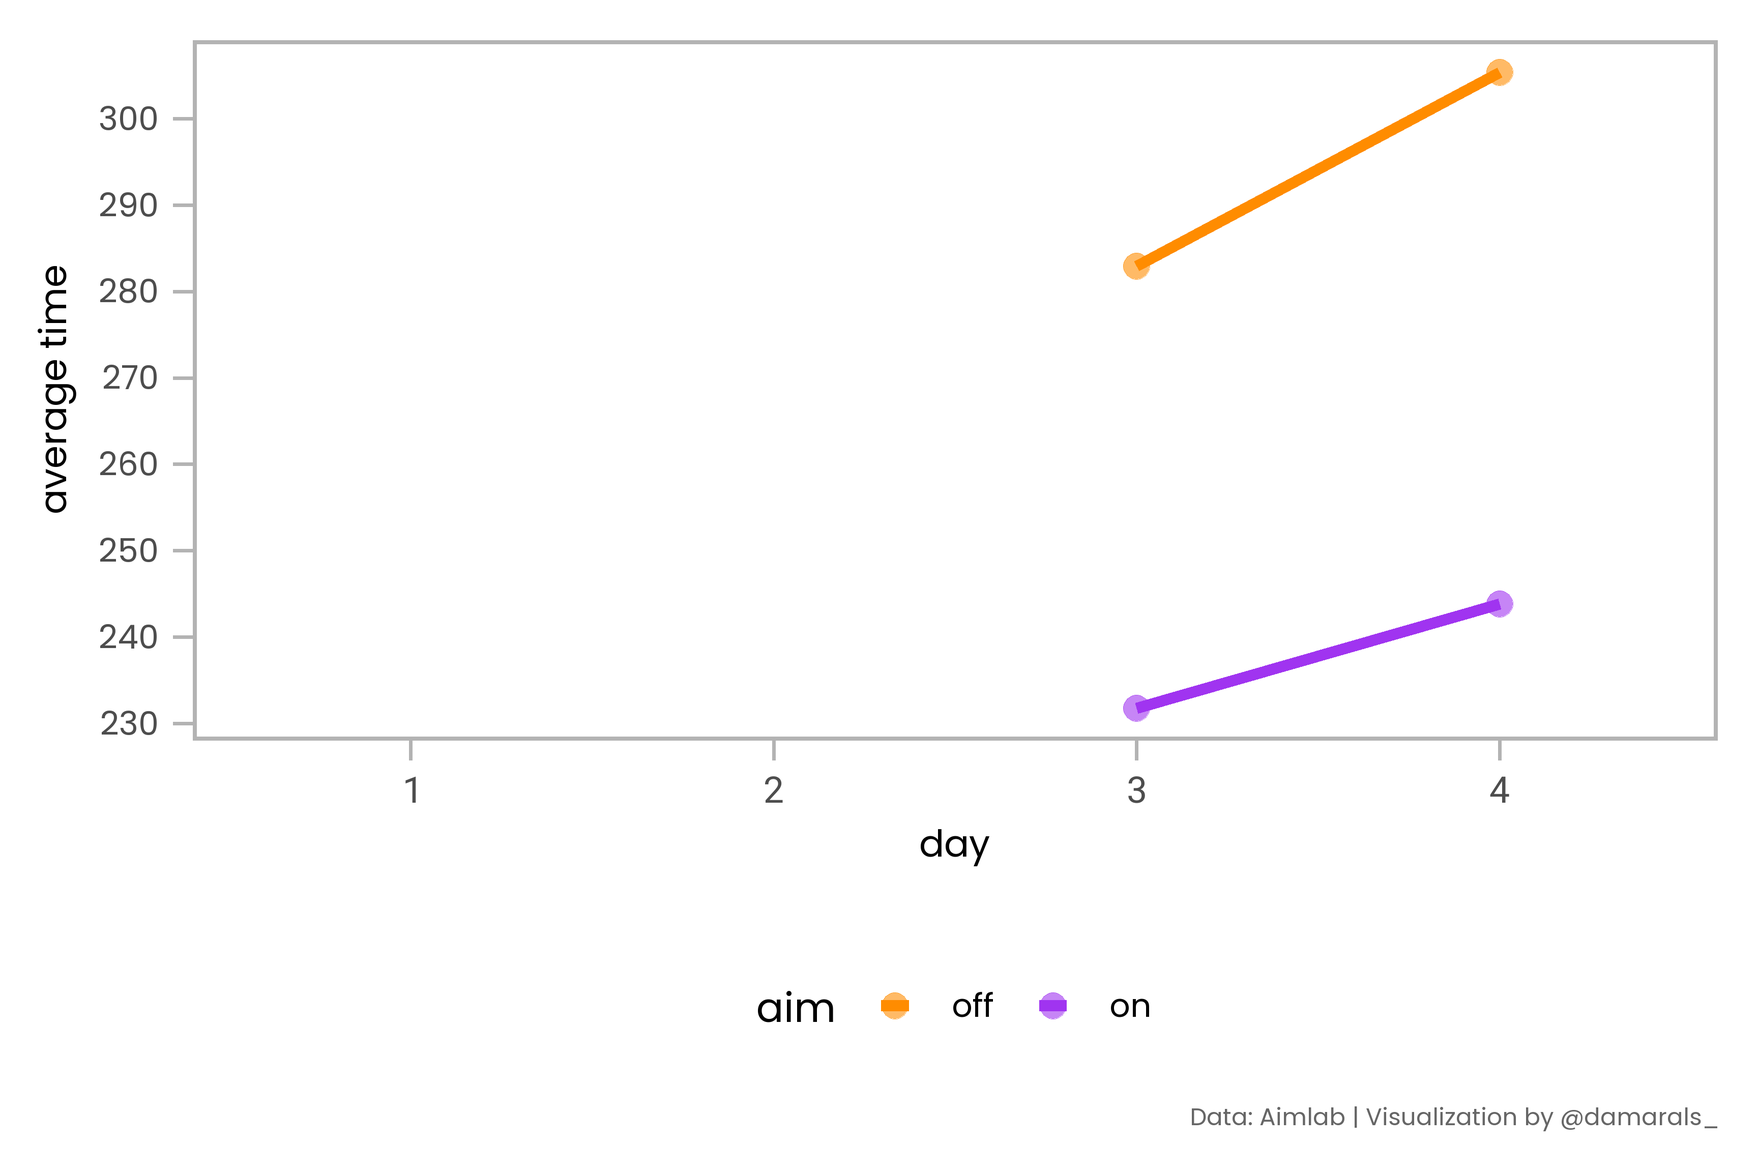
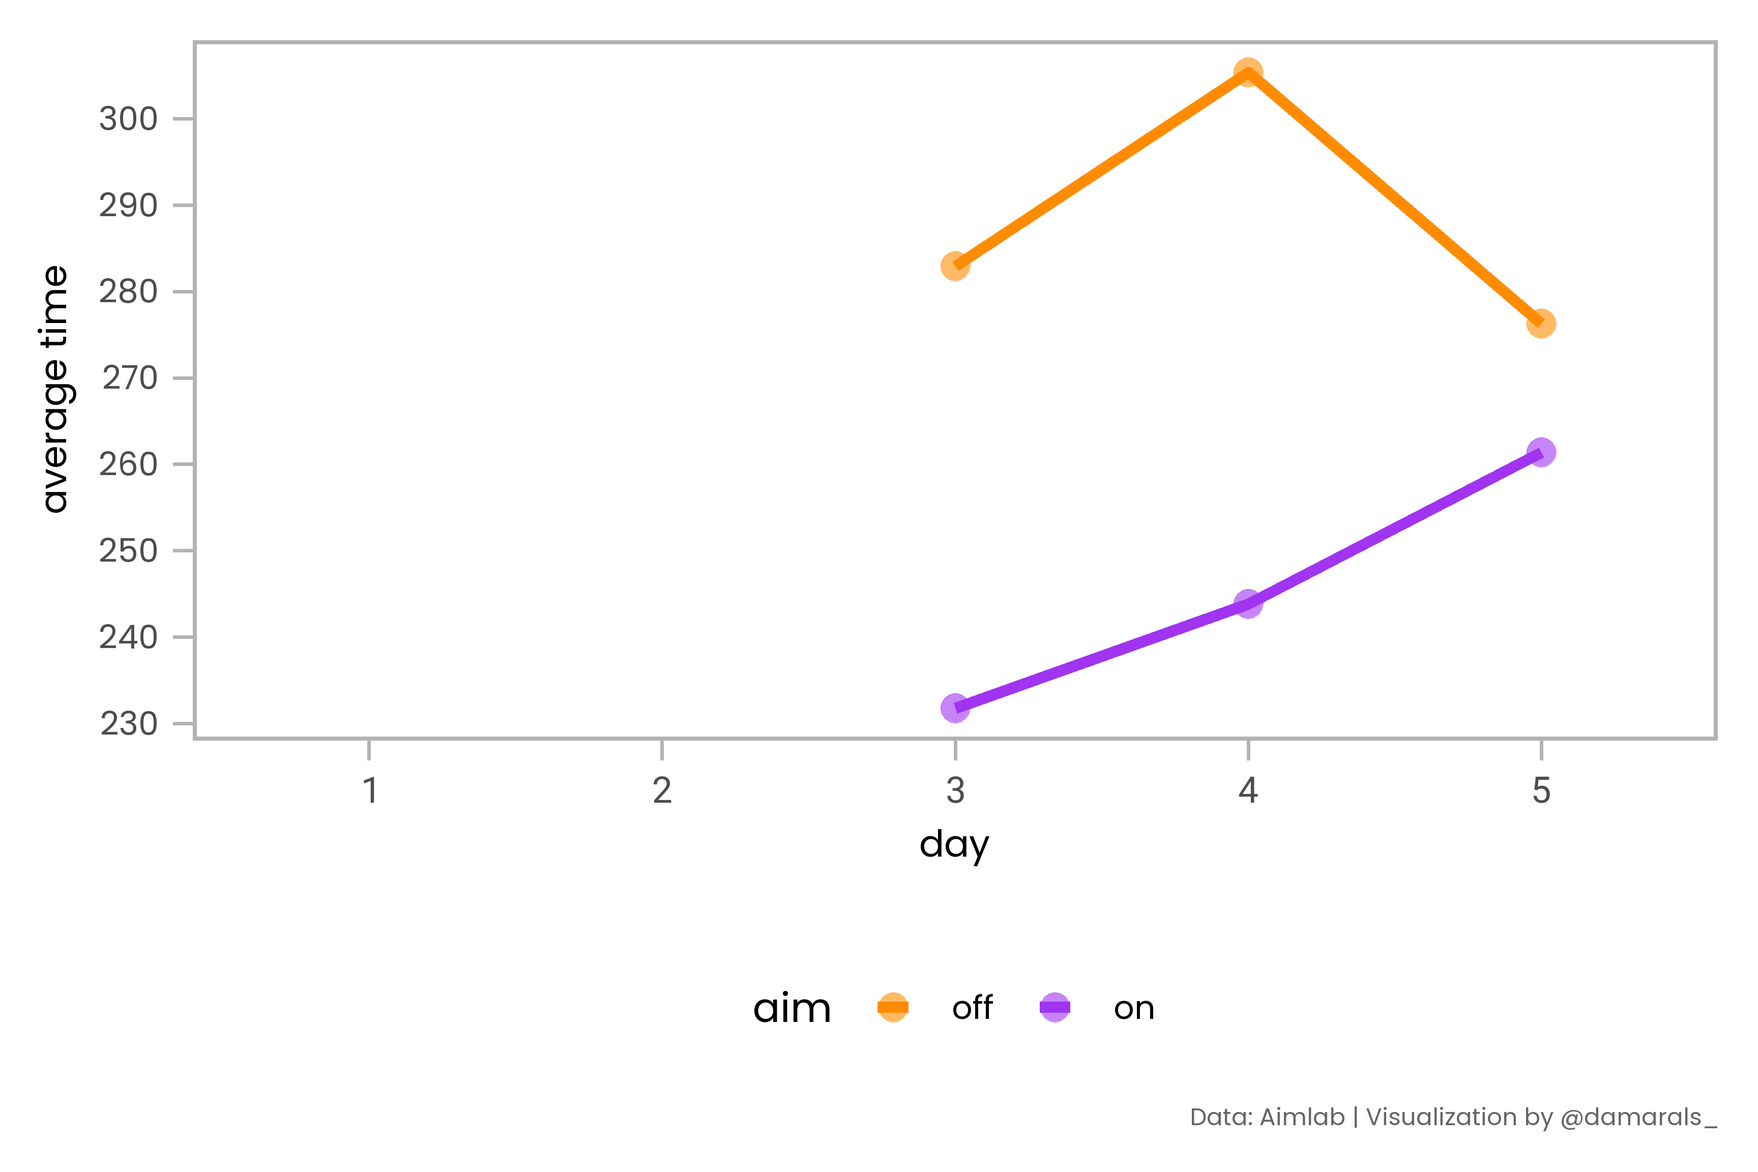
:sparkles: update task data

diff --git a/docs/posts/2022-05-13_aimlab-is-worth/index.html b/docs/posts/2022-05-13_aimlab-is-worth/index.html
@@ -316,7 +316,7 @@ code span.wa { color: #60a0b0; font-weight: bold; font-style: italic; } /* Warni
 <span id="cb3-7"><a href="#cb3-7" aria-hidden="true" tabindex="-1"></a>  dplyr<span class="sc">::</span><span class="fu">mutate</span>(<span class="at">aim =</span> stringr<span class="sc">::</span><span class="fu">str_remove</span>(aim, <span class="st">"avg_time_"</span>)) <span class="sc">%&gt;%</span></span>
 <span id="cb3-8"><a href="#cb3-8" aria-hidden="true" tabindex="-1"></a>  ggplot2<span class="sc">::</span><span class="fu">ggplot</span>() <span class="sc">+</span></span>
 <span id="cb3-9"><a href="#cb3-9" aria-hidden="true" tabindex="-1"></a>  ggplot2<span class="sc">::</span><span class="fu">aes</span>(<span class="at">x =</span> day, <span class="at">y =</span> avg_time, <span class="at">color =</span> aim, <span class="at">group =</span> aim) <span class="sc">+</span></span>
-<span id="cb3-10"><a href="#cb3-10" aria-hidden="true" tabindex="-1"></a>  ggplot2<span class="sc">::</span><span class="fu">stat_summary</span>(<span class="at">fun =</span> mean, <span class="at">geom =</span> <span class="st">"point"</span>, <span class="at">size =</span> <span class="dv">9</span>, <span class="at">alpha =</span> <span class="fl">0.6</span>) <span class="sc">+</span></span>
+<span id="cb3-10"><a href="#cb3-10" aria-hidden="true" tabindex="-1"></a>  ggplot2<span class="sc">::</span><span class="fu">stat_summary</span>(<span class="at">fun =</span> mean, <span class="at">geom =</span> <span class="st">"point"</span>, <span class="at">size =</span> <span class="dv">10</span>, <span class="at">alpha =</span> <span class="fl">0.6</span>) <span class="sc">+</span></span>
 <span id="cb3-11"><a href="#cb3-11" aria-hidden="true" tabindex="-1"></a>  ggplot2<span class="sc">::</span><span class="fu">stat_summary</span>(<span class="at">fun =</span> mean, <span class="at">geom =</span> <span class="st">"line"</span>, <span class="at">size =</span> <span class="dv">4</span>) <span class="sc">+</span></span>
 <span id="cb3-12"><a href="#cb3-12" aria-hidden="true" tabindex="-1"></a>  ggplot2<span class="sc">::</span><span class="fu">scale_y_continuous</span>(<span class="at">breaks =</span> scales<span class="sc">::</span><span class="fu">pretty_breaks</span>(<span class="dv">8</span>)) <span class="sc">+</span></span>
 <span id="cb3-13"><a href="#cb3-13" aria-hidden="true" tabindex="-1"></a>  ggplot2<span class="sc">::</span><span class="fu">scale_color_discrete</span>(<span class="st">"aim on ball"</span>) <span class="sc">+</span></span>
@@ -390,7 +390,7 @@ code span.wa { color: #60a0b0; font-weight: bold; font-style: italic; } /* Warni
 <span id="cb5-4"><a href="#cb5-4" aria-hidden="true" tabindex="-1"></a>  ggplot2<span class="sc">::</span><span class="fu">ggplot</span>() <span class="sc">+</span></span>
 <span id="cb5-5"><a href="#cb5-5" aria-hidden="true" tabindex="-1"></a>  ggplot2<span class="sc">::</span><span class="fu">aes</span>(<span class="at">x =</span> day, <span class="at">y =</span> accuracy, <span class="at">group =</span> <span class="dv">1</span>) <span class="sc">+</span></span>
 <span id="cb5-6"><a href="#cb5-6" aria-hidden="true" tabindex="-1"></a>  ggplot2<span class="sc">::</span><span class="fu">stat_summary</span>(<span class="at">fun =</span> mean, <span class="at">geom =</span> <span class="st">"point"</span>, </span>
-<span id="cb5-7"><a href="#cb5-7" aria-hidden="true" tabindex="-1"></a>                        <span class="at">color =</span> <span class="st">"#A034F0"</span>, <span class="at">size =</span> <span class="dv">9</span>, <span class="at">alpha =</span> <span class="fl">0.6</span>) <span class="sc">+</span></span>
+<span id="cb5-7"><a href="#cb5-7" aria-hidden="true" tabindex="-1"></a>                        <span class="at">color =</span> <span class="st">"#A034F0"</span>, <span class="at">size =</span> <span class="dv">10</span>, <span class="at">alpha =</span> <span class="fl">0.6</span>) <span class="sc">+</span></span>
 <span id="cb5-8"><a href="#cb5-8" aria-hidden="true" tabindex="-1"></a>  ggplot2<span class="sc">::</span><span class="fu">stat_summary</span>(<span class="at">fun =</span> mean, <span class="at">geom =</span> <span class="st">"line"</span>, </span>
 <span id="cb5-9"><a href="#cb5-9" aria-hidden="true" tabindex="-1"></a>                        <span class="at">color =</span> <span class="st">"#A034F0"</span>, <span class="at">size =</span> <span class="dv">4</span>) <span class="sc">+</span></span>
 <span id="cb5-10"><a href="#cb5-10" aria-hidden="true" tabindex="-1"></a>  ggplot2<span class="sc">::</span><span class="fu">scale_y_continuous</span>(<span class="at">labels =</span> scales<span class="sc">::</span><span class="fu">percent_format</span>(<span class="at">accuracy =</span> <span class="dv">1</span>),</span>
@@ -415,7 +415,7 @@ code span.wa { color: #60a0b0; font-weight: bold; font-style: italic; } /* Warni
 <span id="cb6-3"><a href="#cb6-3" aria-hidden="true" tabindex="-1"></a>  ggplot2<span class="sc">::</span><span class="fu">ggplot</span>() <span class="sc">+</span></span>
 <span id="cb6-4"><a href="#cb6-4" aria-hidden="true" tabindex="-1"></a>  ggplot2<span class="sc">::</span><span class="fu">aes</span>(<span class="at">x =</span> day, <span class="at">y =</span> kills_per_sec, <span class="at">group =</span> <span class="dv">1</span>) <span class="sc">+</span></span>
 <span id="cb6-5"><a href="#cb6-5" aria-hidden="true" tabindex="-1"></a>  ggplot2<span class="sc">::</span><span class="fu">stat_summary</span>(<span class="at">fun =</span> mean, <span class="at">geom =</span> <span class="st">"point"</span>, </span>
-<span id="cb6-6"><a href="#cb6-6" aria-hidden="true" tabindex="-1"></a>                        <span class="at">color =</span> <span class="st">"#A034F0"</span>, <span class="at">size =</span> <span class="dv">9</span>, <span class="at">alpha =</span> <span class="fl">0.6</span>) <span class="sc">+</span></span>
+<span id="cb6-6"><a href="#cb6-6" aria-hidden="true" tabindex="-1"></a>                        <span class="at">color =</span> <span class="st">"#A034F0"</span>, <span class="at">size =</span> <span class="dv">10</span>, <span class="at">alpha =</span> <span class="fl">0.6</span>) <span class="sc">+</span></span>
 <span id="cb6-7"><a href="#cb6-7" aria-hidden="true" tabindex="-1"></a>  ggplot2<span class="sc">::</span><span class="fu">stat_summary</span>(<span class="at">fun =</span> mean, <span class="at">geom =</span> <span class="st">"line"</span>, </span>
 <span id="cb6-8"><a href="#cb6-8" aria-hidden="true" tabindex="-1"></a>                        <span class="at">color =</span> <span class="st">"#A034F0"</span>, <span class="at">size =</span> <span class="dv">4</span>) <span class="sc">+</span></span>
 <span id="cb6-9"><a href="#cb6-9" aria-hidden="true" tabindex="-1"></a>  ggplot2<span class="sc">::</span><span class="fu">scale_y_continuous</span>(<span class="at">breaks =</span> scales<span class="sc">::</span><span class="fu">pretty_breaks</span>(<span class="dv">8</span>)) <span class="sc">+</span></span>
@@ -450,7 +450,7 @@ code span.wa { color: #60a0b0; font-weight: bold; font-style: italic; } /* Warni
 <span id="cb7-4"><a href="#cb7-4" aria-hidden="true" tabindex="-1"></a>  ggplot2<span class="sc">::</span><span class="fu">ggplot</span>() <span class="sc">+</span></span>
 <span id="cb7-5"><a href="#cb7-5" aria-hidden="true" tabindex="-1"></a>  ggplot2<span class="sc">::</span><span class="fu">aes</span>(<span class="at">x =</span> day, <span class="at">y =</span> accuracy, <span class="at">group =</span> <span class="dv">1</span>) <span class="sc">+</span></span>
 <span id="cb7-6"><a href="#cb7-6" aria-hidden="true" tabindex="-1"></a>  ggplot2<span class="sc">::</span><span class="fu">stat_summary</span>(<span class="at">fun =</span> mean, <span class="at">geom =</span> <span class="st">"point"</span>, </span>
-<span id="cb7-7"><a href="#cb7-7" aria-hidden="true" tabindex="-1"></a>                        <span class="at">color =</span> <span class="st">"#A034F0"</span>, <span class="at">size =</span> <span class="dv">9</span>, <span class="at">alpha =</span> <span class="fl">0.6</span>) <span class="sc">+</span></span>
+<span id="cb7-7"><a href="#cb7-7" aria-hidden="true" tabindex="-1"></a>                        <span class="at">color =</span> <span class="st">"#A034F0"</span>, <span class="at">size =</span> <span class="dv">10</span>, <span class="at">alpha =</span> <span class="fl">0.6</span>) <span class="sc">+</span></span>
 <span id="cb7-8"><a href="#cb7-8" aria-hidden="true" tabindex="-1"></a>  ggplot2<span class="sc">::</span><span class="fu">stat_summary</span>(<span class="at">fun =</span> mean, <span class="at">geom =</span> <span class="st">"line"</span>, </span>
 <span id="cb7-9"><a href="#cb7-9" aria-hidden="true" tabindex="-1"></a>                        <span class="at">color =</span> <span class="st">"#A034F0"</span>, <span class="at">size =</span> <span class="dv">4</span>) <span class="sc">+</span></span>
 <span id="cb7-10"><a href="#cb7-10" aria-hidden="true" tabindex="-1"></a>  ggplot2<span class="sc">::</span><span class="fu">scale_y_continuous</span>(<span class="at">labels =</span> scales<span class="sc">::</span><span class="fu">percent_format</span>(<span class="at">accuracy =</span> <span class="dv">1</span>),</span>
@@ -475,7 +475,7 @@ code span.wa { color: #60a0b0; font-weight: bold; font-style: italic; } /* Warni
 <span id="cb8-3"><a href="#cb8-3" aria-hidden="true" tabindex="-1"></a>  ggplot2<span class="sc">::</span><span class="fu">ggplot</span>() <span class="sc">+</span></span>
 <span id="cb8-4"><a href="#cb8-4" aria-hidden="true" tabindex="-1"></a>  ggplot2<span class="sc">::</span><span class="fu">aes</span>(<span class="at">x =</span> day, <span class="at">y =</span> kills_per_sec, <span class="at">group =</span> <span class="dv">1</span>) <span class="sc">+</span></span>
 <span id="cb8-5"><a href="#cb8-5" aria-hidden="true" tabindex="-1"></a>  ggplot2<span class="sc">::</span><span class="fu">stat_summary</span>(<span class="at">fun =</span> mean, <span class="at">geom =</span> <span class="st">"point"</span>, </span>
-<span id="cb8-6"><a href="#cb8-6" aria-hidden="true" tabindex="-1"></a>                        <span class="at">color =</span> <span class="st">"#A034F0"</span>, <span class="at">size =</span> <span class="dv">9</span>, <span class="at">alpha =</span> <span class="fl">0.6</span>) <span class="sc">+</span></span>
+<span id="cb8-6"><a href="#cb8-6" aria-hidden="true" tabindex="-1"></a>                        <span class="at">color =</span> <span class="st">"#A034F0"</span>, <span class="at">size =</span> <span class="dv">10</span>, <span class="at">alpha =</span> <span class="fl">0.6</span>) <span class="sc">+</span></span>
 <span id="cb8-7"><a href="#cb8-7" aria-hidden="true" tabindex="-1"></a>  ggplot2<span class="sc">::</span><span class="fu">stat_summary</span>(<span class="at">fun =</span> mean, <span class="at">geom =</span> <span class="st">"line"</span>, </span>
 <span id="cb8-8"><a href="#cb8-8" aria-hidden="true" tabindex="-1"></a>                        <span class="at">color =</span> <span class="st">"#A034F0"</span>, <span class="at">size =</span> <span class="dv">4</span>) <span class="sc">+</span></span>
 <span id="cb8-9"><a href="#cb8-9" aria-hidden="true" tabindex="-1"></a>  ggplot2<span class="sc">::</span><span class="fu">scale_y_continuous</span>(<span class="at">breaks =</span> scales<span class="sc">::</span><span class="fu">pretty_breaks</span>(<span class="dv">8</span>)) <span class="sc">+</span></span>
@@ -510,7 +510,7 @@ code span.wa { color: #60a0b0; font-weight: bold; font-style: italic; } /* Warni
 <span id="cb9-4"><a href="#cb9-4" aria-hidden="true" tabindex="-1"></a>  ggplot2<span class="sc">::</span><span class="fu">ggplot</span>() <span class="sc">+</span></span>
 <span id="cb9-5"><a href="#cb9-5" aria-hidden="true" tabindex="-1"></a>  ggplot2<span class="sc">::</span><span class="fu">aes</span>(<span class="at">x =</span> day, <span class="at">y =</span> accuracy, <span class="at">group =</span> <span class="dv">1</span>) <span class="sc">+</span></span>
 <span id="cb9-6"><a href="#cb9-6" aria-hidden="true" tabindex="-1"></a>  ggplot2<span class="sc">::</span><span class="fu">stat_summary</span>(<span class="at">fun =</span> mean, <span class="at">geom =</span> <span class="st">"point"</span>, </span>
-<span id="cb9-7"><a href="#cb9-7" aria-hidden="true" tabindex="-1"></a>                        <span class="at">color =</span> <span class="st">"#A034F0"</span>, <span class="at">size =</span> <span class="dv">9</span>, <span class="at">alpha =</span> <span class="fl">0.6</span>) <span class="sc">+</span></span>
+<span id="cb9-7"><a href="#cb9-7" aria-hidden="true" tabindex="-1"></a>                        <span class="at">color =</span> <span class="st">"#A034F0"</span>, <span class="at">size =</span> <span class="dv">10</span>, <span class="at">alpha =</span> <span class="fl">0.6</span>) <span class="sc">+</span></span>
 <span id="cb9-8"><a href="#cb9-8" aria-hidden="true" tabindex="-1"></a>  ggplot2<span class="sc">::</span><span class="fu">stat_summary</span>(<span class="at">fun =</span> mean, <span class="at">geom =</span> <span class="st">"line"</span>, </span>
 <span id="cb9-9"><a href="#cb9-9" aria-hidden="true" tabindex="-1"></a>                        <span class="at">color =</span> <span class="st">"#A034F0"</span>, <span class="at">size =</span> <span class="dv">4</span>) <span class="sc">+</span></span>
 <span id="cb9-10"><a href="#cb9-10" aria-hidden="true" tabindex="-1"></a>  ggplot2<span class="sc">::</span><span class="fu">scale_y_continuous</span>(<span class="at">labels =</span> scales<span class="sc">::</span><span class="fu">percent_format</span>(<span class="at">accuracy =</span> <span class="dv">1</span>),</span>
@@ -535,7 +535,7 @@ code span.wa { color: #60a0b0; font-weight: bold; font-style: italic; } /* Warni
 <span id="cb10-3"><a href="#cb10-3" aria-hidden="true" tabindex="-1"></a>  ggplot2<span class="sc">::</span><span class="fu">ggplot</span>() <span class="sc">+</span></span>
 <span id="cb10-4"><a href="#cb10-4" aria-hidden="true" tabindex="-1"></a>  ggplot2<span class="sc">::</span><span class="fu">aes</span>(<span class="at">x =</span> day, <span class="at">y =</span> kills_per_sec, <span class="at">group =</span> <span class="dv">1</span>) <span class="sc">+</span></span>
 <span id="cb10-5"><a href="#cb10-5" aria-hidden="true" tabindex="-1"></a>  ggplot2<span class="sc">::</span><span class="fu">stat_summary</span>(<span class="at">fun =</span> mean, <span class="at">geom =</span> <span class="st">"point"</span>, </span>
-<span id="cb10-6"><a href="#cb10-6" aria-hidden="true" tabindex="-1"></a>                        <span class="at">color =</span> <span class="st">"#A034F0"</span>, <span class="at">size =</span> <span class="dv">9</span>, <span class="at">alpha =</span> <span class="fl">0.6</span>) <span class="sc">+</span></span>
+<span id="cb10-6"><a href="#cb10-6" aria-hidden="true" tabindex="-1"></a>                        <span class="at">color =</span> <span class="st">"#A034F0"</span>, <span class="at">size =</span> <span class="dv">10</span>, <span class="at">alpha =</span> <span class="fl">0.6</span>) <span class="sc">+</span></span>
 <span id="cb10-7"><a href="#cb10-7" aria-hidden="true" tabindex="-1"></a>  ggplot2<span class="sc">::</span><span class="fu">stat_summary</span>(<span class="at">fun =</span> mean, <span class="at">geom =</span> <span class="st">"line"</span>, </span>
 <span id="cb10-8"><a href="#cb10-8" aria-hidden="true" tabindex="-1"></a>                        <span class="at">color =</span> <span class="st">"#A034F0"</span>, <span class="at">size =</span> <span class="dv">4</span>) <span class="sc">+</span></span>
 <span id="cb10-9"><a href="#cb10-9" aria-hidden="true" tabindex="-1"></a>  ggplot2<span class="sc">::</span><span class="fu">scale_y_continuous</span>(<span class="at">breaks =</span> scales<span class="sc">::</span><span class="fu">pretty_breaks</span>(<span class="dv">8</span>)) <span class="sc">+</span></span>
@@ -570,7 +570,7 @@ code span.wa { color: #60a0b0; font-weight: bold; font-style: italic; } /* Warni
 <span id="cb11-4"><a href="#cb11-4" aria-hidden="true" tabindex="-1"></a>  ggplot2<span class="sc">::</span><span class="fu">ggplot</span>() <span class="sc">+</span></span>
 <span id="cb11-5"><a href="#cb11-5" aria-hidden="true" tabindex="-1"></a>  ggplot2<span class="sc">::</span><span class="fu">aes</span>(<span class="at">x =</span> day, <span class="at">y =</span> accuracy, <span class="at">group =</span> <span class="dv">1</span>) <span class="sc">+</span></span>
 <span id="cb11-6"><a href="#cb11-6" aria-hidden="true" tabindex="-1"></a>  ggplot2<span class="sc">::</span><span class="fu">stat_summary</span>(<span class="at">fun =</span> mean, <span class="at">geom =</span> <span class="st">"point"</span>, </span>
-<span id="cb11-7"><a href="#cb11-7" aria-hidden="true" tabindex="-1"></a>                        <span class="at">color =</span> <span class="st">"#A034F0"</span>, <span class="at">size =</span> <span class="dv">9</span>, <span class="at">alpha =</span> <span class="fl">0.6</span>) <span class="sc">+</span></span>
+<span id="cb11-7"><a href="#cb11-7" aria-hidden="true" tabindex="-1"></a>                        <span class="at">color =</span> <span class="st">"#A034F0"</span>, <span class="at">size =</span> <span class="dv">10</span>, <span class="at">alpha =</span> <span class="fl">0.6</span>) <span class="sc">+</span></span>
 <span id="cb11-8"><a href="#cb11-8" aria-hidden="true" tabindex="-1"></a>  ggplot2<span class="sc">::</span><span class="fu">stat_summary</span>(<span class="at">fun =</span> mean, <span class="at">geom =</span> <span class="st">"line"</span>, </span>
 <span id="cb11-9"><a href="#cb11-9" aria-hidden="true" tabindex="-1"></a>                        <span class="at">color =</span> <span class="st">"#A034F0"</span>, <span class="at">size =</span> <span class="dv">4</span>) <span class="sc">+</span></span>
 <span id="cb11-10"><a href="#cb11-10" aria-hidden="true" tabindex="-1"></a>  ggplot2<span class="sc">::</span><span class="fu">scale_y_continuous</span>(<span class="at">labels =</span> scales<span class="sc">::</span><span class="fu">percent_format</span>(<span class="at">accuracy =</span> <span class="dv">1</span>),</span>
@@ -595,7 +595,7 @@ code span.wa { color: #60a0b0; font-weight: bold; font-style: italic; } /* Warni
 <span id="cb12-3"><a href="#cb12-3" aria-hidden="true" tabindex="-1"></a>  ggplot2<span class="sc">::</span><span class="fu">ggplot</span>() <span class="sc">+</span></span>
 <span id="cb12-4"><a href="#cb12-4" aria-hidden="true" tabindex="-1"></a>  ggplot2<span class="sc">::</span><span class="fu">aes</span>(<span class="at">x =</span> day, <span class="at">y =</span> kills_per_sec, <span class="at">group =</span> <span class="dv">1</span>) <span class="sc">+</span></span>
 <span id="cb12-5"><a href="#cb12-5" aria-hidden="true" tabindex="-1"></a>  ggplot2<span class="sc">::</span><span class="fu">stat_summary</span>(<span class="at">fun =</span> mean, <span class="at">geom =</span> <span class="st">"point"</span>, </span>
-<span id="cb12-6"><a href="#cb12-6" aria-hidden="true" tabindex="-1"></a>                        <span class="at">color =</span> <span class="st">"#A034F0"</span>, <span class="at">size =</span> <span class="dv">9</span>, <span class="at">alpha =</span> <span class="fl">0.6</span>) <span class="sc">+</span></span>
+<span id="cb12-6"><a href="#cb12-6" aria-hidden="true" tabindex="-1"></a>                        <span class="at">color =</span> <span class="st">"#A034F0"</span>, <span class="at">size =</span> <span class="dv">10</span>, <span class="at">alpha =</span> <span class="fl">0.6</span>) <span class="sc">+</span></span>
 <span id="cb12-7"><a href="#cb12-7" aria-hidden="true" tabindex="-1"></a>  ggplot2<span class="sc">::</span><span class="fu">stat_summary</span>(<span class="at">fun =</span> mean, <span class="at">geom =</span> <span class="st">"line"</span>, </span>
 <span id="cb12-8"><a href="#cb12-8" aria-hidden="true" tabindex="-1"></a>                        <span class="at">color =</span> <span class="st">"#A034F0"</span>, <span class="at">size =</span> <span class="dv">4</span>) <span class="sc">+</span></span>
 <span id="cb12-9"><a href="#cb12-9" aria-hidden="true" tabindex="-1"></a>  ggplot2<span class="sc">::</span><span class="fu">scale_y_continuous</span>(<span class="at">breaks =</span> scales<span class="sc">::</span><span class="fu">pretty_breaks</span>(<span class="dv">8</span>)) <span class="sc">+</span></span>

diff --git a/docs/index.html b/docs/index.html
@@ -156,7 +156,7 @@ ul.task-list{list-style: none;}
 
 <div class="quarto-listing quarto-listing-container-default" id="listing-listing">
 <div class="list quarto-listing-default">
-<div class="quarto-post image-right" data-index="0" data-categories="Games,DataViz" data-listing-date-sort="1652324400000" data-listing-file-modified-sort="1652495879695" data-listing-reading-time-sort="13.995">
+<div class="quarto-post image-right" data-index="0" data-categories="Games,DataViz" data-listing-date-sort="1652324400000" data-listing-file-modified-sort="1652586353846" data-listing-reading-time-sort="13.995">
 <div class="thumbnail">
 <p><a href="./posts/2022-05-13_aimlab-is-worth/index.html"> <img src="./posts/2022-05-13_aimlab-is-worth/img/aimlab.jpg" class="thumnail-image"> </a></p>
 </div>
